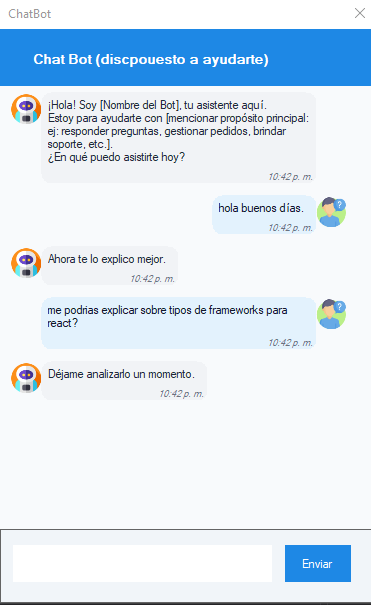
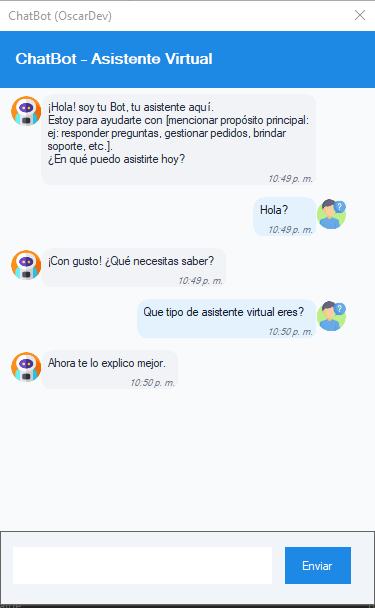
mejorar titulos

diff --git a/chatBot/FormChatbot.Designer.cs b/chatBot/FormChatbot.Designer.cs
@@ -117,13 +117,13 @@
             // laTitulo
             // 
             this.laTitulo.AutoSize = true;
-            this.laTitulo.Font = new System.Drawing.Font("Microsoft Sans Serif", 9.75F, System.Drawing.FontStyle.Bold, System.Drawing.GraphicsUnit.Point, ((byte)(0)));
+            this.laTitulo.Font = new System.Drawing.Font("Microsoft Sans Serif", 11.25F, System.Drawing.FontStyle.Bold, System.Drawing.GraphicsUnit.Point, ((byte)(0)));
             this.laTitulo.ForeColor = System.Drawing.Color.White;
-            this.laTitulo.Location = new System.Drawing.Point(30, 22);
+            this.laTitulo.Location = new System.Drawing.Point(12, 18);
             this.laTitulo.Name = "laTitulo";
-            this.laTitulo.Size = new System.Drawing.Size(243, 16);
+            this.laTitulo.Size = new System.Drawing.Size(205, 18);
             this.laTitulo.TabIndex = 0;
-            this.laTitulo.Text = "Chat Bot (discpouesto a ayudarte)";
+            this.laTitulo.Text = "ChatBot – Asistente Virtual";
             // 
             // backgroundWorker1
             // 
@@ -142,7 +142,7 @@
             this.MinimizeBox = false;
             this.Name = "FormChatbot";
             this.ShowIcon = false;
-            this.Text = "ChatBot";
+            this.Text = "ChatBot (OscarDev)";
             this.TopMost = true;
             this.Load += new System.EventHandler(this.Form1_Load);
             this.panel1.ResumeLayout(false);

diff --git a/chatBot/FormChatbot.cs b/chatBot/FormChatbot.cs
@@ -11,7 +11,7 @@ namespace chatBot
 {
     public partial class FormChatbot : Form
     {
-        string aMsnInicialBot = @"¡Hola! Soy [Nombre del Bot], tu asistente aquí."+Environment.NewLine+
+        string aMsnInicialBot = @"¡Hola! soy tu Bot, tu asistente aquí."+Environment.NewLine+
                             @"Estoy para ayudarte con [mencionar propósito principal: ej: responder preguntas, gestionar pedidos, brindar soporte, etc.]. "+
                             Environment.NewLine+ "¿En qué puedo asistirte hoy?";
         List<string> respuestasBot = new List<string>
